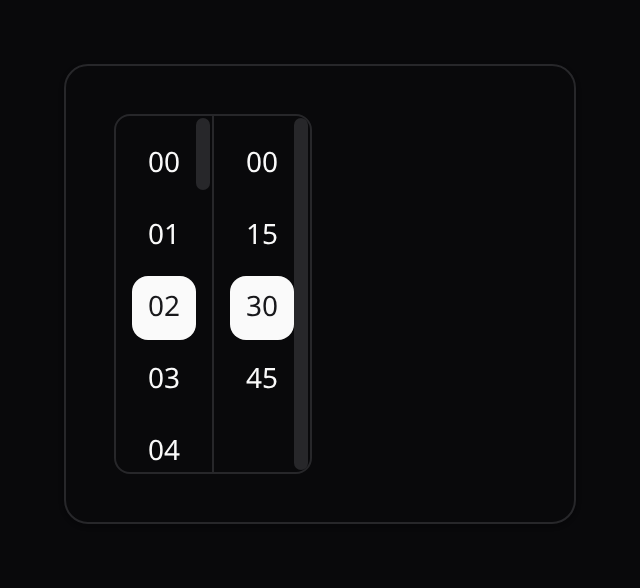
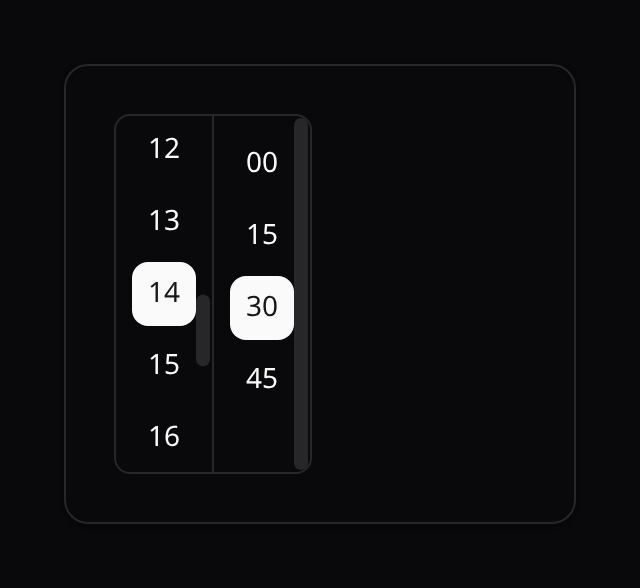
fix(forms): scroll the selected hour/minute into view (TimePicker + DateTimePicker)
The time columns opened scrolled to the top, so the selected hour wasn't
visible. On mount (TimePicker) / popover open (DateTimePicker), center the
selected hour and minute within their scroll columns — scrolling only the
nearest scrollable ancestor, never the page.

Changed region(s): [[0.1875, 0.3367, 0.3438, 0.6735], [0.2188, 0.1837, 0.3438, 0.3367], [0.2188, 0.7041, 0.2812, 0.7959]]

diff --git a/resources/js/components/KinetixDateTimePicker.vue b/resources/js/components/KinetixDateTimePicker.vue
@@ -6,7 +6,7 @@ import {
   PopoverRoot,
   PopoverTrigger,
 } from "reka-ui";
-import { computed, ref } from "vue";
+import { computed, nextTick, ref, watch } from "vue";
 import { useI18n } from "vue-i18n";
 import KinetixCalendar from "./KinetixCalendar.vue";
 import ScrollArea from "./primitives/ScrollArea.vue";
@@ -133,6 +133,48 @@ const timeBtn = (active: boolean) =>
     buttonVariants({ variant: active ? "default" : "ghost", size: "icon-sm" }),
     "aspect-square shrink-0 sm:w-full",
   );
+
+// Reveal the selected hour/minute in their scroll columns when the popover opens.
+const hourEl = ref<HTMLElement | null>(null);
+const minuteEl = ref<HTMLElement | null>(null);
+
+const hourRef = (el: unknown, h: number) => {
+  const active = props.hour12 ? displayHour.value === h : hour24.value === h;
+  if (active && el) {
+    hourEl.value = el as HTMLElement;
+  }
+};
+const minuteRef = (el: unknown, m: number) => {
+  if (minute.value === m && el) {
+    minuteEl.value = el as HTMLElement;
+  }
+};
+
+/** Scroll only the nearest scrollable ancestor (not the page) to center `el`. */
+const centerInScrollParent = (el: HTMLElement | null) => {
+  if (!el) {
+    return;
+  }
+  let parent = el.parentElement;
+  while (parent && parent.scrollHeight <= parent.clientHeight) {
+    parent = parent.parentElement;
+  }
+  if (!parent) {
+    return;
+  }
+  const elRect = el.getBoundingClientRect();
+  const pRect = parent.getBoundingClientRect();
+  parent.scrollTop += elRect.top - pRect.top - pRect.height / 2 + elRect.height / 2;
+};
+
+watch(open, (isOpen) => {
+  if (isOpen && datePart.value != null) {
+    nextTick(() => {
+      centerInScrollParent(hourEl.value);
+      centerInScrollParent(minuteEl.value);
+    });
+  }
+});
 </script>
 
 <template>
@@ -182,6 +224,7 @@ const timeBtn = (active: boolean) =>
                 <button
                   v-for="h in hours"
                   :key="`h-${h}`"
+                  :ref="(el) => hourRef(el, h)"
                   type="button"
                   :class="
                     timeBtn(
@@ -201,6 +244,7 @@ const timeBtn = (active: boolean) =>
                 <button
                   v-for="m in minutes"
                   :key="`m-${m}`"
+                  :ref="(el) => minuteRef(el, m)"
                   type="button"
                   :class="timeBtn(datePart != null && minute === m)"
                   @click="setMinute(m)"

diff --git a/resources/js/components/KinetixTimePicker.vue b/resources/js/components/KinetixTimePicker.vue
@@ -1,5 +1,5 @@
 <script setup lang="ts">
-import { computed } from "vue";
+import { computed, nextTick, onMounted, ref, watch } from "vue";
 import ScrollArea from "./primitives/ScrollArea.vue";
 import { cn } from "./primitives/cn";
 import { buttonVariants } from "@/composables/useShadcnVariants";
@@ -65,6 +65,51 @@ const timeBtn = (active: boolean) =>
     buttonVariants({ variant: active ? "default" : "ghost", size: "icon-sm" }),
     "aspect-square shrink-0 sm:w-full",
   );
+
+// Track the selected hour/minute buttons so we can reveal them on open.
+const hourEl = ref<HTMLElement | null>(null);
+const minuteEl = ref<HTMLElement | null>(null);
+
+const hourRef = (el: unknown, h: number) => {
+  const active = props.hour12 ? displayHour.value === h : hour24.value === h;
+  if (active && el) {
+    hourEl.value = el as HTMLElement;
+  }
+};
+const minuteRef = (el: unknown, m: number) => {
+  if (minute.value === m && el) {
+    minuteEl.value = el as HTMLElement;
+  }
+};
+
+/** Scroll only the nearest scrollable ancestor (not the page) to center `el`. */
+const centerInScrollParent = (el: HTMLElement | null) => {
+  if (!el) {
+    return;
+  }
+  let parent = el.parentElement;
+  while (parent && parent.scrollHeight <= parent.clientHeight) {
+    parent = parent.parentElement;
+  }
+  if (!parent) {
+    return;
+  }
+  const elRect = el.getBoundingClientRect();
+  const pRect = parent.getBoundingClientRect();
+  parent.scrollTop += elRect.top - pRect.top - pRect.height / 2 + elRect.height / 2;
+};
+
+const revealSelected = () => {
+  centerInScrollParent(hourEl.value);
+  centerInScrollParent(minuteEl.value);
+};
+
+onMounted(() => {
+  if (hasValue.value) {
+    nextTick(revealSelected);
+  }
+});
+watch(() => props.value, () => nextTick(revealSelected));
 </script>
 
 <template>
@@ -86,6 +131,7 @@ const timeBtn = (active: boolean) =>
         <button
           v-for="h in hours"
           :key="`h-${h}`"
+          :ref="(el) => hourRef(el, h)"
           type="button"
           :disabled="disabled"
           :class="timeBtn(hasValue && (hour12 ? displayHour === h : hour24 === h))"
@@ -101,6 +147,7 @@ const timeBtn = (active: boolean) =>
         <button
           v-for="m in minutes"
           :key="`m-${m}`"
+          :ref="(el) => minuteRef(el, m)"
           type="button"
           :disabled="disabled"
           :class="timeBtn(hasValue && minute === m)"

diff --git a/gallery/specimens.ts b/gallery/specimens.ts
@@ -265,7 +265,7 @@ export const specimens: Specimen[] = [
   { name: "pricing-table", title: "Pricing table", component: KinetixPricingTable, width: 880, props: { plans, currentPlanSlug: "starter", cycle: "monthly", currencySymbol: "$" } },
   { name: "stats-widget", title: "Stats overview widget", component: KinetixStatsOverviewWidget, width: 980, props: { widget: statsWidget } },
   { name: "range-calendar", title: "Date range calendar", component: KinetixRangeCalendar, frame: "card", width: 560, props: { value: { from: "2026-06-10", to: "2026-06-18" }, numberOfMonths: 1 } },
-  { name: "time-picker", title: "Time picker", component: KinetixTimePicker, frame: "card", width: 320, props: { value: "02:30", minuteStep: 15 } },
+  { name: "time-picker", title: "Time picker", component: KinetixTimePicker, frame: "card", width: 320, props: { value: "14:30", minuteStep: 15 } },
   { name: "datetime-picker", title: "Date-time picker (open)", component: KinetixDateTimePicker, width: 760, openSelector: "#specimen button", props: { value: "2026-06-15T14:30", minuteStep: 30 } },
 
   // --- Form layouts ----------------------------------------------------------
